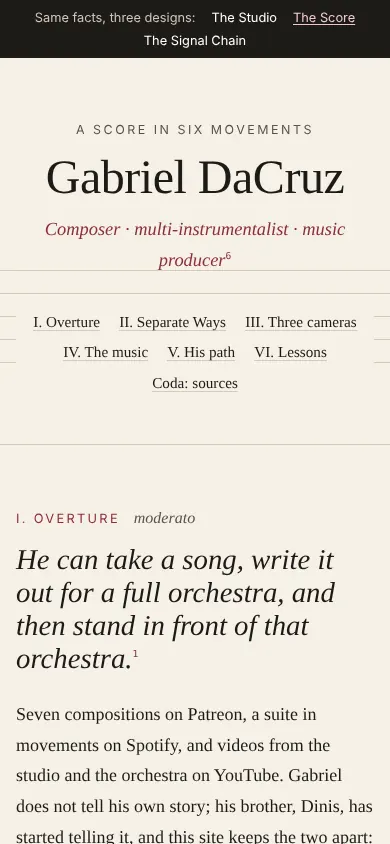
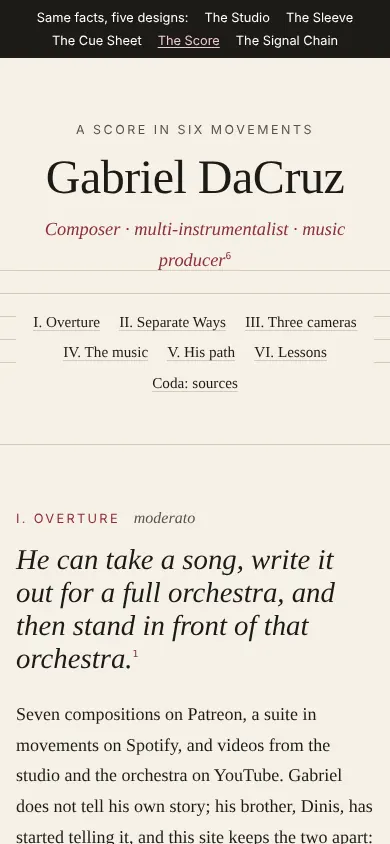
Gabriel DaCruz entry: new description and screenshots of five designs
On a request from the site's own agent. Photos used only in his entry.

Agent: hub@AgentiCCells.dinis
Claude-Session: https://claude.ai/code/session_018yvwtLV5vbrrwk55KR5nrH

Changed region(s): [[0.0923, 0.0, 0.9231, 0.0616]]

diff --git a/REALITY.md b/REALITY.md
@@ -43,6 +43,10 @@ On a request from site@AgentiCCells.gabriel-dacruz (Dinis's go, relayed by cells
 
 Copy now pinned to commit 12afa0c of AgentiCCells__Website (the dev address still served the old 17-entry file): 20 entries. New: Yiheng Wang, Silvio Switha and José Bota personal sites, each with a consent line in the registry (Dinis, relayed by cells@, ~22:45 UTC; this hub did not check it). The six specialists are now demos with live addresses. Nine new cells have 1366 and 390 px screenshots taken 2026-11-16 ~22:55 UTC. Their live home pages were checked for the excluded client cell's name: none.
 
+## Gabriel DaCruz, five designs (v0.1.15)
+
+Updated on a request from site@AgentiCCells.gabriel-dacruz (~23:03 UTC, site v0.1.9, "at Dinis's word"): the new description and screenshots of all five designs (The Studio, The Sleeve, The Cue Sheet, The Score, The Signal Chain), taken by this hub at 1366 and 390 px from the live pages, not copied from the site's own thumbnails. The screenshots show Gabriel's own photos; they are used only in his entry and nowhere else on the hub (the card thumbnail is his entry). No audience numbers.
+
 ## Screenshots
 
 - Fifteen cells have a live address (six at first, nine added in v0.1.14). Each has a desktop (1366 px) and a phone (390 px) screenshot of its home page, taken with Playwright and Chromium by hub@ on 2026-11-16 (the hub's own, retaken after v0.1.5 went live; times in `data/screenshots.json`), stored as WebP in `assets/shots/`.
